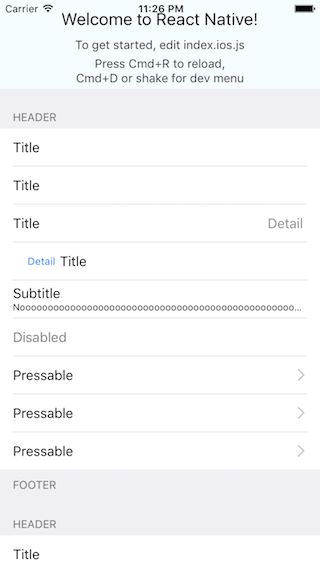
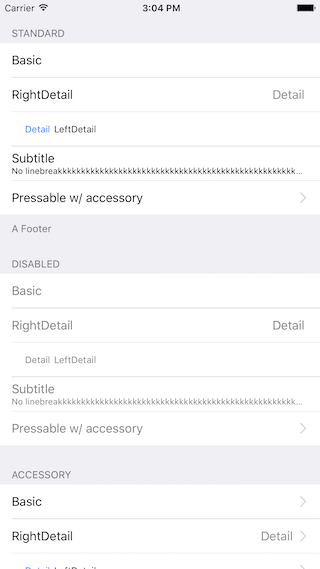
updated README

diff --git a/components/Cell.js b/components/Cell.js
@@ -15,6 +15,7 @@ export default class Cell extends Component {
     const styleCell = [...{}, styles.cell, { backgroundColor: cellTintColor}];
     const styleCell__subtitle = [...{}, styles.cell__subtitle, { backgroundColor: cellTintColor}];
     const styleCell_title = isDisabled ? [...{}, styles.cell_title, styles.cell_text__disabled] : [...{}, styles.cell_title, {color: titleTintColor}];
+    const styleCell_leftDetailTitle = isDisabled ? [...{}, styles.cell_leftDetailTitle, styles.cell_text__disabled] : [...{}, styles.cell_leftDetailTitle, {color: titleTintColor}];
 
     /**
      * Render accessory
@@ -66,7 +67,7 @@ export default class Cell extends Component {
       return(
           <View style={styleCell}>
             <Text numberOfLines={1} style={isDisabled ? [...{}, styles.cell_leftdetail, styles.cell_text__disabled] : styles.cell_leftdetail}>{detail}</Text>
-            <Text numberOfLines={1} style={styleCell_title}>{title}</Text>
+            <Text numberOfLines={1} style={styleCell_leftDetailTitle}>{title}</Text>
             {renderAccessory()}
           </View>
       )
@@ -151,6 +152,10 @@ var styles = StyleSheet.create({
   },
   'cell_title':{
     fontSize: 16,
+    flex: 1,
+  },
+  'cell_leftDetailTitle':{
+    fontSize: 12,
     flex: 1,
   },
   'cell_detail': {

diff --git a/example/index.ios.js b/example/index.ios.js
@@ -9,7 +9,7 @@ import {TableView, Section, Cell} from 'react-native-tableview-simple';
  class Example extends Component {
   render() {
     return (
-      <ScrollView>
+      <ScrollView contentContainerStyle={styles.stage}>
         <TableView>
           <Section header="STANDARD" footer="A Footer">
             <Cell cellstyle="Basic" title="Basic"/>
@@ -39,23 +39,11 @@ import {TableView, Section, Cell} from 'react-native-tableview-simple';
 };
 
 var styles = StyleSheet.create({
-  container: {
-    flex: 1,
-    justifyContent: 'center',
-    alignItems: 'center',
-    backgroundColor: '#F5FCFF',
+  stage: {
+    backgroundColor: '#EFEFF4',
+    paddingTop: 20,
+    paddingBottom: 20,
   },
-  welcome: {
-    fontSize: 20,
-    textAlign: 'center',
-    margin: 10,
-  },
-  instructions: {
-    textAlign: 'center',
-    color: '#333333',
-    marginBottom: 5,
-  },
-
 });
 
 AppRegistry.registerComponent('example', () => Example);

diff --git a/components/Section.js b/components/Section.js
@@ -25,8 +25,8 @@ export default class Section extends Component {
         return(
           <View>
             {child}
-            <View style={styles.cellhr}>
-              <View style={styles.cellhr_inner}></View>
+            <View style={styles.separator}>
+              <View style={styles.separator_inner}></View>
             </View>
           </View>
         )
@@ -82,10 +82,10 @@ var styles = StyleSheet.create({
     paddingRight: 15,
     paddingTop: 10,
   },
-  'cellhr': {
+  'separator': {
     backgroundColor: '#fff',
   },
-  'cellhr_inner': {
+  'separator_inner': {
     marginLeft: 15,
     height: 0.5,
     backgroundColor: '#c8c7cc',

diff --git a/README.md b/README.md
@@ -29,93 +29,76 @@ Currently `TableView` doesn't provide any properties.
 | :------------ | :---------------:| :---------------:| ---------------|
 | header | - | `string` | Header value |
 | footer | - | `string` | Footer value |
+| sectionTintColor | #EFEFF4 | `string` | Background color of section |
+| headerTintColor | #6d6d72 | `string` | Text color of header |
+| footerTintColor | #6d6d72 | `string` | Text color of footer|
 
 ### Cell
 | Prop  | Default | Type | Description |
 | :------------ | :---------------:| :---------------:| ---------------|
-| cellstyle | Basic | `string` | Predefined styles: `Basic`, `RightDetail`, `LeftDetail`, `Subtitle` |
+| cellstyle | `Basic | `string` | Predefined styles: `Basic`, `RightDetail`, `LeftDetail`, `Subtitle` |
 | title | - | `string` | Title value |
 | detail | - | `string` | Detail value |
 | isDisabled | false | `bool` | Cell is disabled. `onPress` will not get triggered |
 | accessory | - | `string` | Predefined accessory: `DisclosureIndicator` |
-| onPress | - | `func` | If set, Cell will be automaticaly initialized with TouchableHighlight |
-
+| onPress | - | `func` | If set, cell will be automaticaly initialized with TouchableHighlight |
+| cellTintColor | #fff | `string` | Background color of cell |
+| titleTintColor | #000 | `string` | Text color of title |
 
 ## Example
+The left screen is build using `react-native-tableview-simple`. The right one is native.
 ![](https://raw.github.com/Purii/react-native-tableview-simple/master/screenshot.png)
+![](https://raw.github.com/Purii/react-native-tableview-simple/master/screenshotNative.png)
 ```javascript
 import React, { AppRegistry, Component, PropTypes, StyleSheet, ScrollView, View, Text } from 'react-native';
 import {TableView, Section, Cell} from 'react-native-tableview-simple';
 
 /**
-* Sample React Native App
-* https://github.com/facebook/react-native
-*/
+ * Sample React Native App
+ * https://github.com/facebook/react-native
+ */
 
-class Example extends Component {
-	render() {
-		return (
-			<ScrollView>
-				<View style={styles.container}>
-					<Text style={styles.welcome}>
-						Welcome to React Native!
-					</Text>
-					<Text style={styles.instructions}>
-						To get started, edit index.ios.js
-					</Text>
-					<Text style={styles.instructions}>
-						Press Cmd+R to reload,{'\n'}
-						Cmd+D or shake for dev menu
-					</Text>
-				</View>
-				<TableView>
-					<Section header="HEADER" footer="FOOTER">
-						<Cell cellstyle="Basic" title="Title"/>
-						<Cell cellstyle="Basic" title="Title"/>
-						<Cell cellstyle="RightDetail" title="Title" detail="Detail" />
-						<Cell cellstyle="LeftDetail" title="Title" detail="Detail"/>
-						<Cell cellstyle="Subtitle" title="Subtitle" detail="Nooooooooooooooooooooooooooooooooooooooooooooooooooooooooooooooo Linebreakkkkkkkkkkkkkkkkkkkkkkkkkkkkkkkkkkkkkkkkkkkkkkkkkkkkkkkkkkkkkkkkkkkk"/>
-						<Cell cellstyle="Basic" title="Disabled" isDisabled="true"/>
-						<Cell cellstyle="Basic" title="Pressable" accessory="DisclosureIndicator" onPress={() => {console.log('Heyho!')}}/>
-						<Cell cellstyle="Basic" title="Pressable" accessory="DisclosureIndicator" onPress={() => {console.log('Heyho!')}}/>
-						<Cell cellstyle="Basic" title="Pressable" accessory="DisclosureIndicator" onPress={() => {console.log('Heyho!')}}/>
-					</Section>
-					<Section header="HEADER">
-						<Cell cellstyle="Basic" title="Title"/>
-						<Cell cellstyle="Basic" title="Title"/>
-						<Cell cellstyle="RightDetail" title="Title" detail="Detail" />
-						<Cell cellstyle="LeftDetail" title="Title" detail="Detail"/>
-						<Cell cellstyle="Subtitle" title="Subtitle" detail="Nooooooooooooooooooooooooooooooooooooooooooooooooooooooooooooooo Linebreakkkkkkkkkkkkkkkkkkkkkkkkkkkkkkkkkkkkkkkkkkkkkkkkkkkkkkkkkkkkkkkkkkkk"/>
-						<Cell cellstyle="Basic" title="Disabled" isDisabled="true"/>
-						<Cell cellstyle="Basic" title="Pressable" accessory="DisclosureIndicator" onPress={() => {console.log('Heyho!')}}/>
-						<Cell cellstyle="Basic" title="Pressable" accessory="DisclosureIndicator" onPress={() => {console.log('Heyho!')}}/>
-						<Cell cellstyle="Basic" title="Pressable" accessory="DisclosureIndicator" onPress={() => {console.log('Heyho!')}}/>
-					</Section>
-				</TableView>
-			</ScrollView>
-		);
-	}
+ class Example extends Component {
+ 	render() {
+    return (
+      <ScrollView contentContainerStyle={styles.stage}>
+        <TableView>
+          <Section header="STANDARD" footer="A Footer">
+            <Cell cellstyle="Basic" title="Basic"/>
+            <Cell cellstyle="RightDetail" title="RightDetail" detail="Detail" />
+            <Cell cellstyle="LeftDetail" title="LeftDetail" detail="Detail"/>
+            <Cell cellstyle="Subtitle" title="Subtitle" detail="No linebreakkkkkkkkkkkkkkkkkkkkkkkkkkkkkkkkkkkkkkkkkkkkkkkkkkkkkkkkkkkkkkkkkkkk"/>
+            <Cell cellstyle="Basic" title="Pressable w/ accessory" accessory="DisclosureIndicator" onPress={() => {console.log('Heyho!')}}/>
+          </Section>
+          <Section header="DISABLED">
+            <Cell cellstyle="Basic" isDisabled="true" title="Basic"/>
+            <Cell cellstyle="RightDetail" isDisabled="true" title="RightDetail" detail="Detail" />
+            <Cell cellstyle="LeftDetail" isDisabled="true" title="LeftDetail" detail="Detail"/>
+            <Cell cellstyle="Subtitle" isDisabled="true" title="Subtitle" detail="No linebreakkkkkkkkkkkkkkkkkkkkkkkkkkkkkkkkkkkkkkkkkkkkkkkkkkkkkkkkkkkkkkkkkkkk"/>
+            <Cell cellstyle="Basic" isDisabled="true" title="Pressable w/ accessory" accessory="DisclosureIndicator" onPress={() => {console.log('Heyho!')}}/>
+          </Section>
+          <Section header="ACCESSORY">
+            <Cell cellstyle="Basic" accessory="DisclosureIndicator" title="Basic"/>
+            <Cell cellstyle="RightDetail" accessory="DisclosureIndicator" title="RightDetail" detail="Detail" />
+            <Cell cellstyle="LeftDetail" accessory="DisclosureIndicator" title="LeftDetail" detail="Detail"/>
+            <Cell cellstyle="Subtitle" accessory="DisclosureIndicator" title="Subtitle" detail="No linebreakkkkkkkkkkkkkkkkkkkkkkkkkkkkkkkkkkkkkkkkkkkkkkkkkkkkkkkkkkkkkkkkkkkk"/>
+            <Cell cellstyle="Basic" accessory="DisclosureIndicator" title="Pressable w/ accessory" onPress={() => {console.log('Heyho!')}}/>
+          </Section>
+        </TableView>
+      </ScrollView>
+    );
+  }
 };
 
 var styles = StyleSheet.create({
-	container: {
-		flex: 1,
-		justifyContent: 'center',
-		alignItems: 'center',
-		backgroundColor: '#F5FCFF',
-	},
-	welcome: {
-		fontSize: 20,
-		textAlign: 'center',
-		margin: 10,
-	},
-	instructions: {
-		textAlign: 'center',
-		color: '#333333',
-		marginBottom: 5,
-	}
+  stage: {
+    backgroundColor: '#EFEFF4',
+    paddingTop: 20,
+    paddingBottom: 20,
+  },
 });
 
 AppRegistry.registerComponent('example', () => Example);
+
 
 ```
